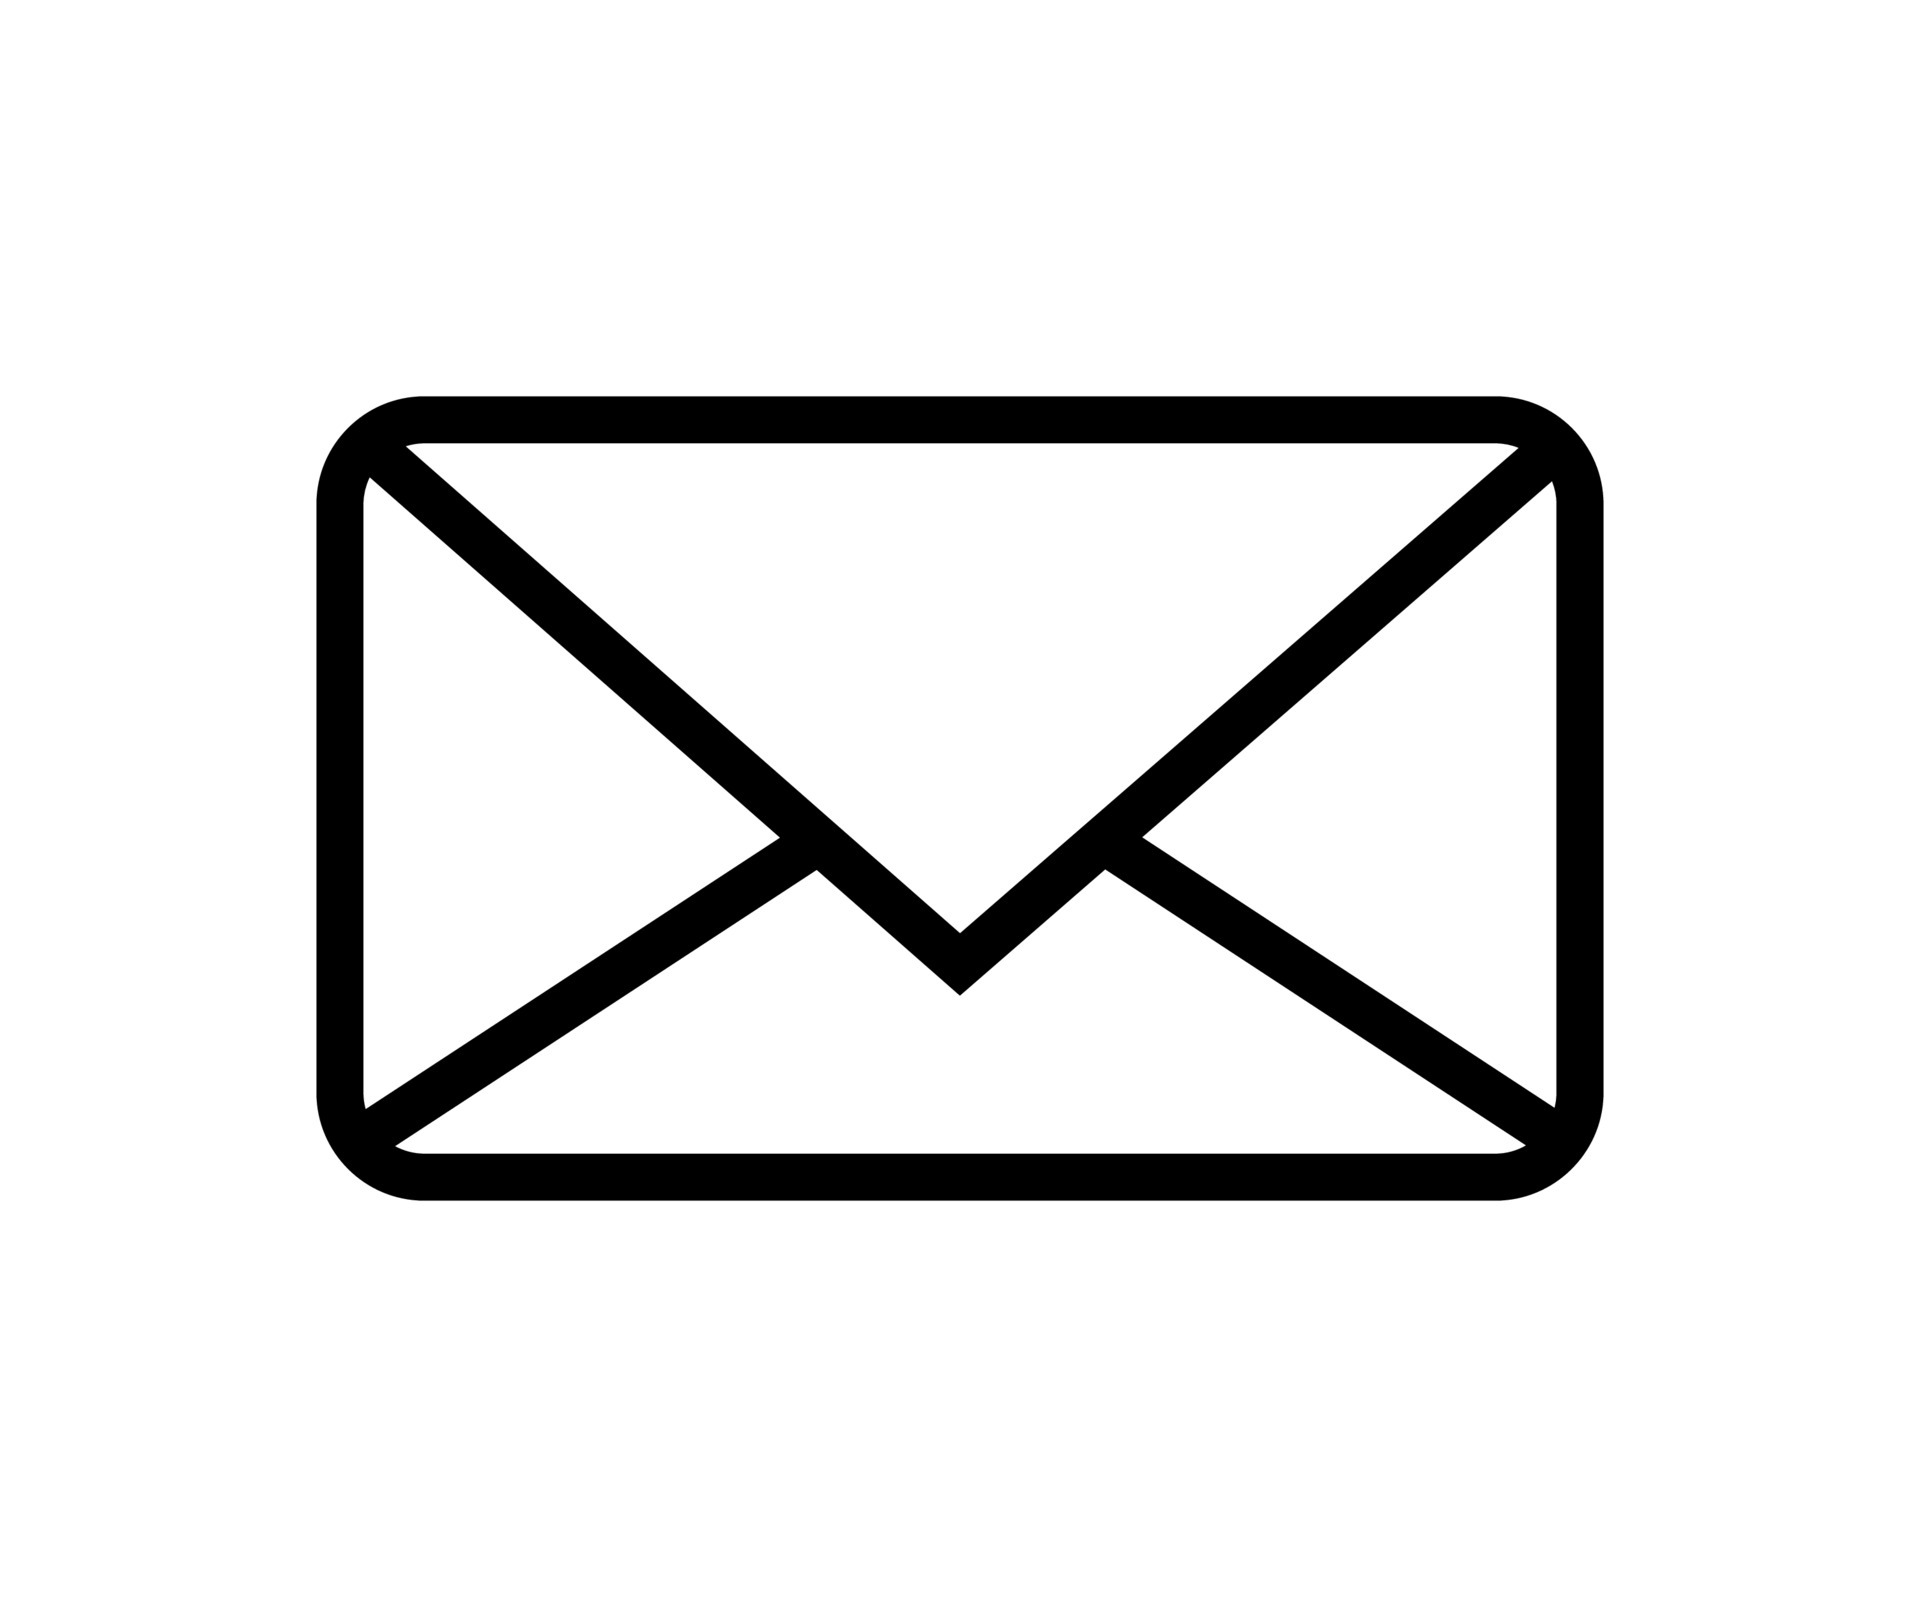
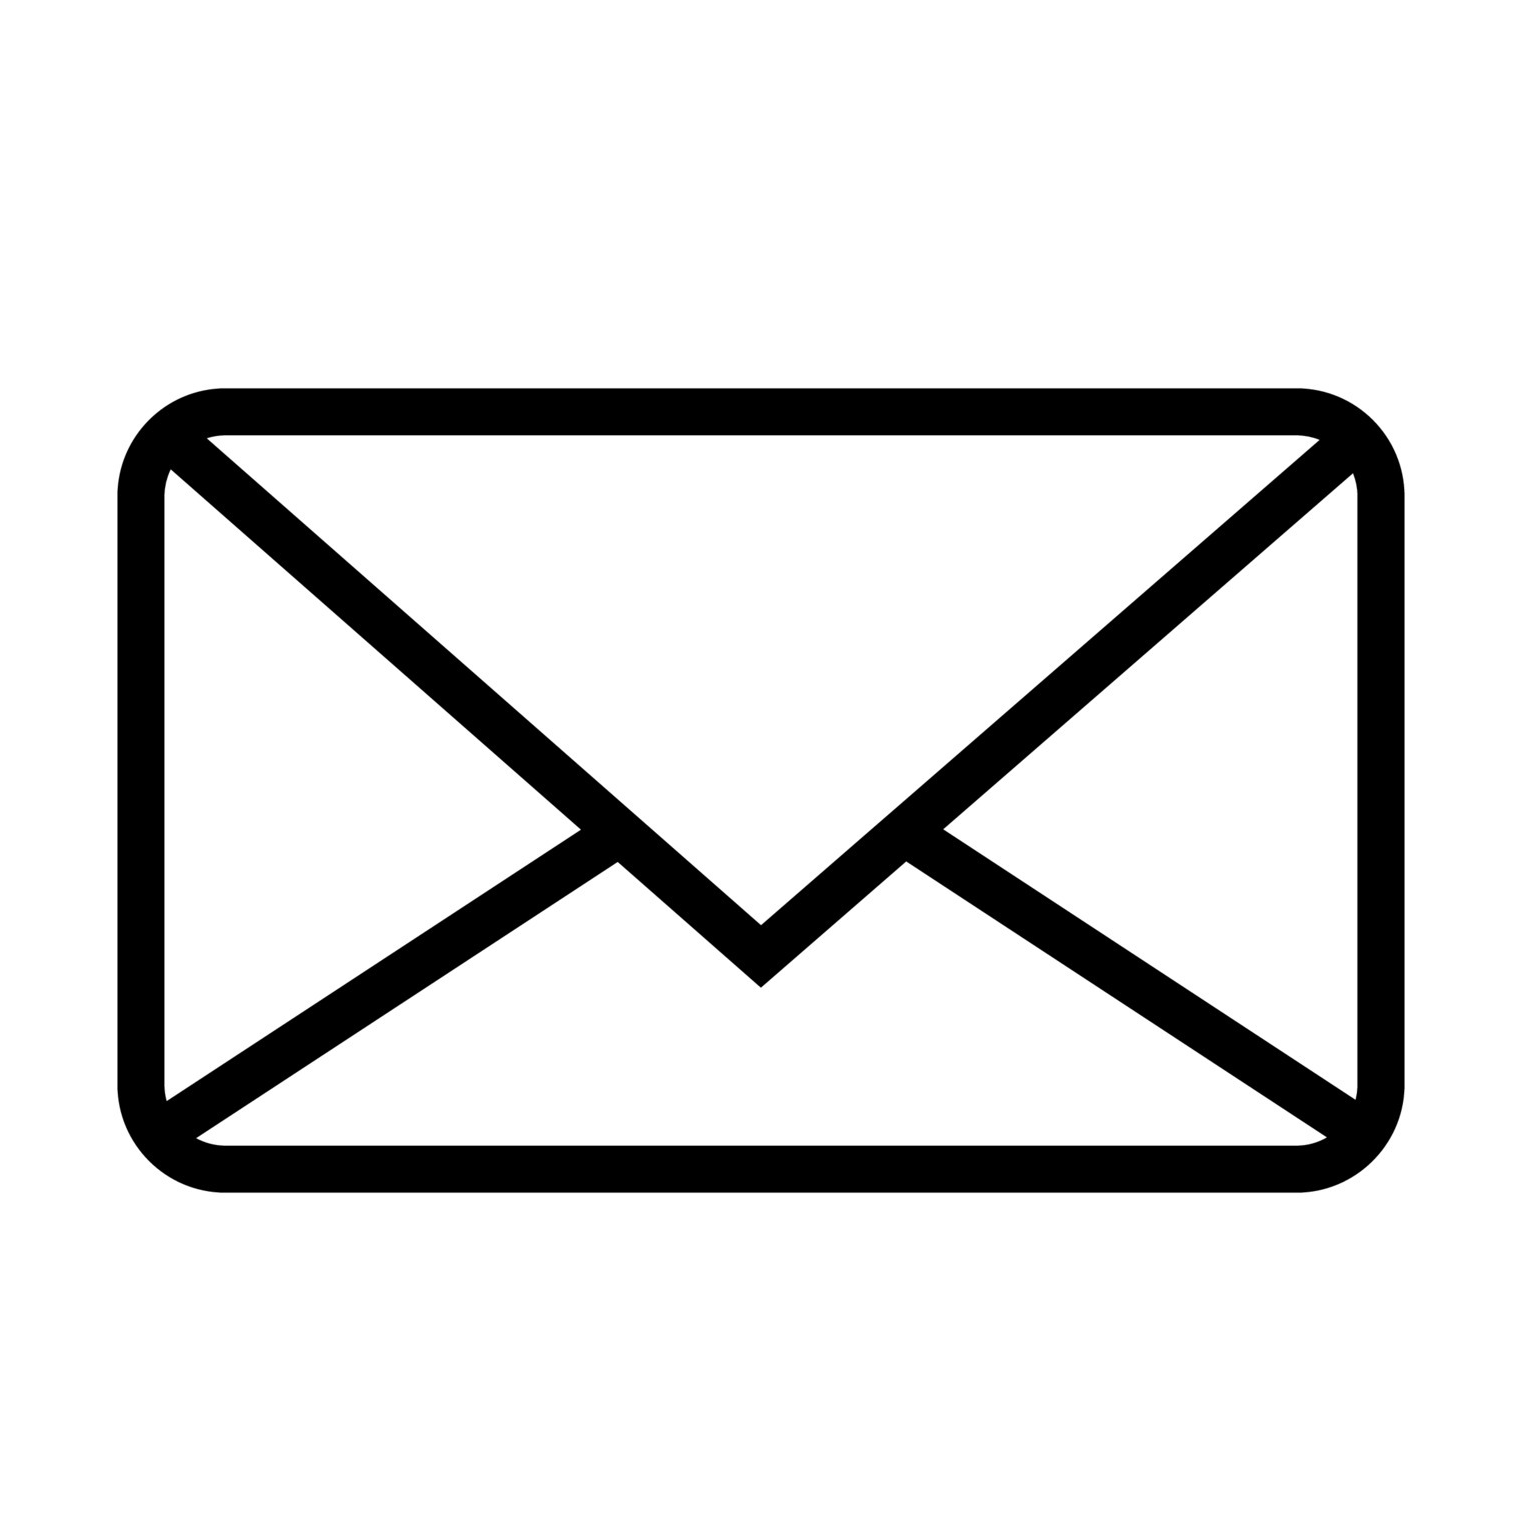
remocao imagem duplicada(email) correcao de nome

Changed region(s): [[0.0618, 0.2472, 0.927, 0.8034], [0.6489, 0.5562, 0.6798, 0.5871]]

diff --git a/index.html b/index.html
@@ -957,11 +957,11 @@
                         <a href='https://api.whatsapp.com/send?phone=5531993327631' class="icon" target='_blank'>
                             <img src="assets/Images/whatsapp..png" alt="Fale Conosco pelo WhatsApp" title="Fale Conosco pelo WhatsApp" />
                         </a>
-                        <a href="https://www.instagram.com/julsgomes/" class="icon" target='_blank'>
+                        <a href="https://www.instagram.com/visaojrufop/" class="icon" target='_blank'>
                             <img src="assets/Images/instagram.png" alt="Siga-nos no Instagram" title="Fale Conosco pelo Insta" />
                         </a>
                         <a href="mailto:luaneldermendes@gmail.com?subject=Gostaria de fazer um orçamento&&body=Estou Interessado em alguns de seus produtos">
-                            <img src="assets/Images/email (2).png" alt="Nos envie um email" title="Email para contato" />
+                            <img src="assets/Images/email.png" alt="Nos envie um email" title="Email para contato" />
                         </a>
                         <a href= "https://www.google.com/maps/place/Instituto+de+Ci%C3%AAncias+Exatas+e+Aplicadas+-+ICEA%2FUFOP/@-19.8360858,-43.1701626,17z/data=!4m6!3m5!1s0xa507511efdbbd3:0x55a7ef3c198b9753!8m2!3d-19.8361918!4d-43.1677057!16s%2Fg%2F1tf172_b?entry=ttu">
                             <img src="assets/Images/maps.png" alt="Nosso endereço" title="Coordenadas Google" />
